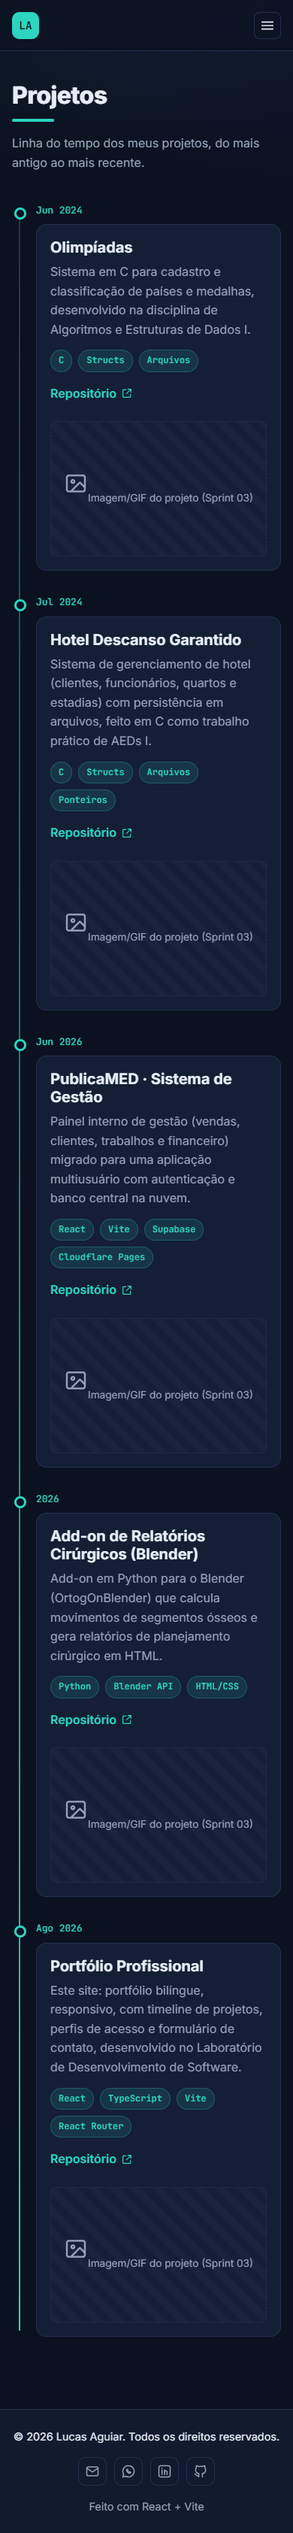
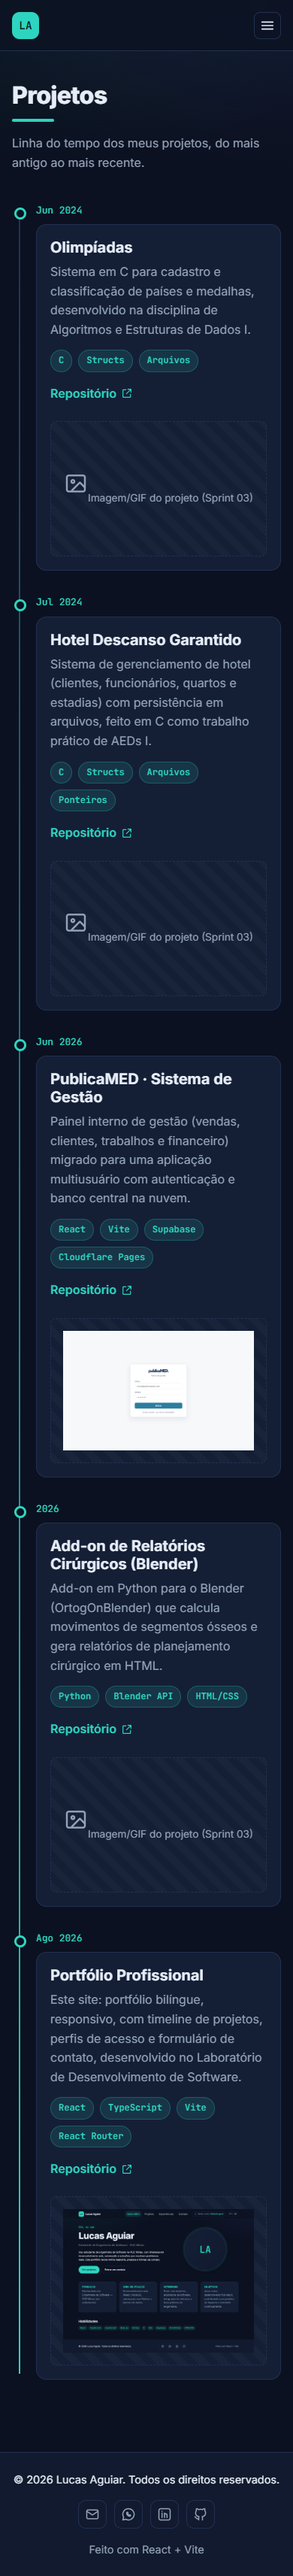
S03: prepara deploy na Vercel e adiciona imagens de projetos
- vercel.json com rewrite de SPA para as rotas do React Router
- Imagens na timeline: PublicaMED (tela de login, sem dados) e o próprio portfólio

diff --git a/src/data/projects.ts b/src/data/projects.ts
@@ -53,6 +53,7 @@ export const projects: Project[] = [
     technologies: ['React', 'Vite', 'Supabase', 'Cloudflare Pages'],
     repo: 'https://github.com/viniciusoramos/PublicaMED_Sistema',
     tags: ['profissional', 'freelance'],
+    image: '/projects/publicamed.png',
   },
   {
     id: 'addon-relatorios',
@@ -79,5 +80,6 @@ export const projects: Project[] = [
     technologies: ['React', 'TypeScript', 'Vite', 'React Router'],
     repo: 'https://github.com/lucassousaaguiar/portfolio',
     tags: ['academico', 'open-source'],
+    image: '/projects/portfolio.png',
   },
 ]
